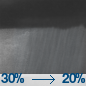
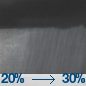
wire: 2026-10-15 RSA-1015-WIRE-122 + first sports/weather siblings

Changed region(s): [[0.7209, 0.8605, 0.814, 0.9767], [0.0, 0.8605, 0.1163, 0.9767]]

diff --git a/wire.html b/wire.html
@@ -5,16 +5,16 @@
   <meta name="viewport" content="width=device-width, initial-scale=1.0">
   <script>(function(){try{var s=localStorage.getItem('usmc-theme')||localStorage.getItem('theme');if(s!=='light')document.documentElement.setAttribute('data-theme','dark');}catch(e){}})();</script>
   <title>RESOLUTE Wire — Curated News for Citizens | U.S.M.C. Ministries</title>
-  <meta name="description" content="National and technology reporting for Thursday morning.">
+  <meta name="description" content="National and technology reporting for Thursday evening.">
   <link rel="canonical" href="https://usmcmin.com/wire.html">
   <meta property="og:site_name" content="RESOLUTE Wire">
-  <meta property="og:title" content="An F-35C trapped on the future John F. Kennedy for the first time — RESOLUTE Wire">
-  <meta name="twitter:title" content="An F-35C trapped on the future John F. Kennedy for the first time — RESOLUTE Wire">
-  <meta property="og:description" content="National and technology reporting for Thursday morning.">
+  <meta property="og:title" content="USS John Basilone arrived in Rota, completing the shift from Mayport — RESOLUTE Wire">
+  <meta name="twitter:title" content="USS John Basilone arrived in Rota, completing the shift from Mayport — RESOLUTE Wire">
+  <meta property="og:description" content="National and technology reporting for Thursday evening.">
   <meta property="og:type" content="website">
   <meta property="og:url" content="https://usmcmin.com/wire.html">
-  <meta property="og:image" content="https://usmcmin.com/assets/og/wire-dvids-10009945-jfk-f35c-1200x630.jpg">
-  <meta name="twitter:image" content="https://usmcmin.com/assets/og/wire-dvids-10009945-jfk-f35c-1200x630.jpg">
+  <meta property="og:image" content="https://usmcmin.com/assets/og/wire-dvids-10010800-basilone-rota-1200x630.jpg">
+  <meta name="twitter:image" content="https://usmcmin.com/assets/og/wire-dvids-10010800-basilone-rota-1200x630.jpg">
   <meta property="og:image:width" content="1200">
   <meta property="og:image:height" content="630">
   <meta name="twitter:image:width" content="1200">
@@ -134,19 +134,19 @@
     </div>
     <header class="mast" id="top">
       <h1>RESOLUTE <em>Wire</em></h1>
-      <p class="dek">National and technology reporting for Thursday morning.</p>
-      <div class="meta">Thursday, October 15, 2026 · AM edition · Rush Sullivan</div>
+      <p class="dek">National and technology reporting for Thursday evening.</p>
+      <div class="meta">Thursday, October 15, 2026 · PM edition · Rush Sullivan</div>
     </header>
     <article class="hero">
       <div class="hero-media">
-        <img src="assets/wire/dvids-10009945-jfk-f35c-1000w.jpg" alt="">
-        <div class="hero-credit">Mass Communication Specialist Seaman Kaitlyn Bailey · DVIDS 10009945 · Public domain · An F-35C Lightning II of VX-23 makes an arrested landing on PCU John F. Kennedy (CVN 79) in the Atlantic Ocean. Photo taken Oct. 13, 2026.</div>
+        <img src="assets/wire/dvids-10010800-basilone-rota-1000w.jpg" alt="">
+        <div class="hero-credit">Mass Communication Specialist 2nd Class Alyssa Sperle · DVIDS 10010800 · Public domain · A brow is secured to USS John Basilone (DDG 122) after arrival at Naval Station Rota, Spain, completing the homeport shift from Mayport. Photo taken Oct. 13, 2026.</div>
       </div>
       <div class="hero-body">
         <span class="chip">DVIDS</span>
-        <h2><a href="https://www.dvidshub.net/image/10009945/pcu-john-f-kennedy-first-f-35c-landing" target="_blank" rel="noopener">An F-35C trapped on the future John F. Kennedy for the first time</a></h2>
-        <p class="insight">DVIDS posted a Navy photograph of an F-35C Lightning II, attached to the Salty Dogs of Air Test and Evaluation Squadron (VX) 23, making an arrested landing on the flight deck of PCU John F. Kennedy (CVN 79). The caption says it is the first time an F-35C has landed on a Ford-class aircraft carrier. The ship is underway in the Atlantic conducting Aircraft Compatibility Testing of its launch and recovery gear. The photograph was taken Oct. 13 by Mass Communication Specialist Seaman Kaitlyn Bailey. USNI News reported Wednesday that Navy video and imagery show the same trap on Tuesday.</p>
-        <div class="src">DVIDS · <a href="https://www.dvidshub.net/image/10009945/pcu-john-f-kennedy-first-f-35c-landing" target="_blank" rel="noopener">Read source →</a></div>
+        <h2><a href="https://www.dvidshub.net/image/10010800/uss-john-basilone-ddg-122-completes-its-homeport-shift-navsta-rota" target="_blank" rel="noopener">USS John Basilone arrived in Rota, completing the shift from Mayport</a></h2>
+        <p class="insight">A Navy photograph posted Wednesday shows a brow secured to the Arleigh Burke-class guided-missile destroyer USS John Basilone (DDG 122) after the ship arrived at Naval Station Rota, Spain. The caption says the arrival on Oct. 14 completed the homeport shift from Mayport, Florida. The photograph was taken Oct. 13 by Mass Communication Specialist 2nd Class Alyssa Sperle. Rota is the Navy&#x27;s forward hub for destroyers covering Europe, Africa, and the Middle East.</p>
+        <div class="src">DVIDS · <a href="https://www.dvidshub.net/image/10010800/uss-john-basilone-ddg-122-completes-its-homeport-shift-navsta-rota" target="_blank" rel="noopener">Read source →</a></div>
       </div>
     </article>
     <section class="rails" aria-label="Channel rails">
@@ -154,16 +154,16 @@
         <h3>Political</h3>
         <article class="item no-media">
           <div>
-            <h4><a href="https://www.heritage.org/progressivism/commentary/trumps-census-proposal-big-step-restoring-national-unity" target="_blank" rel="noopener">Heritage says a census change is the sharper fight against cultural division</a></h4>
-            <p>Wednesday&#x27;s Heritage commentary says the Trump administration has made bold moves against cultural balkanization, citing fights with the Smithsonian Institution and the educational establishment. It says no move is more vital than the proposal to eliminate race, ethnicity, and sexual preference from the census.</p>
+            <h4><a href="https://www.heritage.org/health-care-reform/commentary/childhood-vaccine-schedules-across-countries" target="_blank" rel="noopener">American children get far more vaccine doses than children abroad</a></h4>
+            <p>Thursday&#x27;s Heritage commentary says childhood vaccination policies vary widely by country, and that American children receive up to 75 vaccine doses, twice as many as children in other countries. It says that disparity is why a confirmed FDA director, if Dr. Heidi Overton is confirmed, would put the schedule near the top of the job.</p>
             <div class="who">Heritage Foundation</div>
           </div>
           
         </article>
         <article class="item no-media">
           <div>
-            <h4><a href="https://lawliberty.org/civic-education-and-classical-liberalism/" target="_blank" rel="noopener">A Law &amp; Liberty essay asks what classical liberals want from civic education</a></h4>
-            <p>Thursday&#x27;s Law &amp; Liberty essay says civics centers that teach Western civilization and great books are often called conservative, and that the writer has not seen political litmus tests in them. It quotes Michael Oakeshott that every person is born heir to an inheritance that can be taken up only by learning. The essay says liberal learning frees students from the present by handing them that inheritance, then asks how civic education sits with classical liberalism and the role of the state.</p>
+            <h4><a href="https://lawliberty.org/book-review/progressive-buyers-remorse/" target="_blank" rel="noopener">The left is dusting off old arguments to weaken the Court</a></h4>
+            <p>Thursday&#x27;s Law &amp; Liberty book review says progressive writers are rediscovering century-old arguments for crippling the Supreme Court.</p>
             <div class="who">Law &amp; Liberty</div>
           </div>
           
@@ -173,17 +173,17 @@
         <h3>Tech / AI</h3>
         <article class="item no-media">
           <div>
-            <h4><a href="https://www.defensenews.com/industry/techwatch/2026/10/15/us-soldiers-must-train-on-new-basics-of-unmanned-systems-officials-say/" target="_blank" rel="noopener">Army officers say drone work is now a basic soldier skill</a></h4>
-            <p>Defense News reported Thursday that Army officials at the Association of the United States Army meeting said soldiers training for multi-domain operations need a common baseline they called new basics. In the 2nd Cavalry Regiment that list covers unmanned aerial systems, counter-drone systems, and unmanned ground vehicles. Col. Timothy Price, the regiment commander, said in a Tuesday Army release that counter-drone defense cannot stay tied to static positions if the American way of war is maneuver. The regiment is expanding Project Flytrap from small-unit trials to a battalion-level capability on Europe&#x27;s eastern flank. Flytrap 5.0, in Lithuania, tested more than 50 industry systems against a live opposing force with the United Kingdom and Australia.</p>
+            <h4><a href="https://www.defensenews.com/industry/techwatch/2026/10/15/kratos-combat-drone-completes-first-euro-flight-advances-turbojet-engine-production/" target="_blank" rel="noopener">Kratos and Airbus flew the U740 Valkyrie combat drone over Europe</a></h4>
+            <p>Defense News reports that Kratos and Airbus said the U740 Valkyrie completed a first European test flight this week, built for German and other European forces. The companies said the flight met its goals: a rocket-assisted takeoff, maneuvers at several altitudes, speeds up to Mach 0.8, and mission changes in flight. They described a 30-foot airframe with a 27-foot wingspan and an internal weapons bay.</p>
             <div class="who">Defense News</div>
           </div>
           
         </article>
         <article class="item no-media">
           <div>
-            <h4><a href="https://www.thepublicdiscourse.com/2026/10/102130/" target="_blank" rel="noopener">A Public Discourse essay says originalism now cuts against Burkean caution</a></h4>
-            <p>Thursday&#x27;s Public Discourse essay recalls Thomas Merrill&#x27;s 1990s argument that Robert Bork&#x27;s originalism and Edmund Burke&#x27;s conservatism were not the same thing, and that Burke beat Bork for anyone who put stock in conservative values. The writer says originalism is more sophisticated in the academy and more common on the Court than it was then, and that the older criticism is more urgent now because originalist jurisprudence has become a threat to conservative commitments.</p>
-            <div class="who">Public Discourse</div>
+            <h4><a href="https://www.defensenews.com/global/europe/2026/10/15/france-to-go-it-alone-on-next-gen-combat-aircraft-after-fcas-collapse/" target="_blank" rel="noopener">France will build its next fighter at home after the joint project with Germany collapsed</a></h4>
+            <p>Defense News reports that Air and Space Force Chief of Staff Jérôme Bellanger told the National Assembly&#x27;s defense committee on Wednesday that France now treats the future fighter, Avion de Combat du Futur, as a national program meant to fly conventional missions in 2040. France and Germany agreed in June to scrap the joint Future Combat Air System with Spain. Bellanger said Paris remains open to later cooperation that would not structure the aircraft&#x27;s birth.</p>
+            <div class="who">Defense News</div>
           </div>
           
         </article>
@@ -192,9 +192,9 @@
         <h3>Culture</h3>
         <article class="item no-media">
           <div>
-            <h4><a href="https://firstthings.com/why-the-death-penalty-is-a-sore-point-for-papal-authority/" target="_blank" rel="noopener">First Things says Leo&#x27;s death-penalty post sits against older Catholic teaching</a></h4>
-            <p>Thursday&#x27;s First Things essay quotes Pope Leo XIV&#x27;s Oct. 10 message that the death penalty is inadmissible because it attacks the inviolability and dignity of the person, and that detention can protect citizens without closing off redemption. The essay says that language comes from Pope Francis&#x27;s 2018 revision of the Catechism, which also records that legitimate authority long treated capital punishment after a fair trial as an acceptable means of safeguarding the common good. It says that older view runs through Scripture, the Fathers and Doctors, and the popes through Pius XII.</p>
-            <div class="who">First Things</div>
+            <h4><a href="https://providencemag.com/2026/10/the-violent-bear-it-away-who-decides-what-is-just/" target="_blank" rel="noopener">Leo called just war outdated because it needs rulers who will judge</a></h4>
+            <p>Thursday&#x27;s Providence essay says Pope Leo XIV&#x27;s encyclical Magnifica Humanitas called just war theory outdated. The writer agrees, but not as a call to drop the tradition: just war is not self-executing. It assumes legitimate political authority, shared moral concepts, and people who will make the hard call.</p>
+            <div class="who">Providence</div>
           </div>
           
         </article>
@@ -210,7 +210,7 @@
     </section>
     <section class="watch">
       <h3>Watch</h3>
-      <ul><li><a href="https://news.usni.org/2026/10/14/chinese-carrier-strike-group-drills-in-the-philippine-sea" target="_blank" rel="noopener">Japan&#x27;s Joint Staff says Liaoning&#x27;s group was in the Philippine Sea</a> </li></ul>
+      <ul><li><a href="https://news.usni.org/2026/10/15/north-korea-tests-first-submarine-launched-cruise-missile-in-nearly-3-years" target="_blank" rel="noopener">North Korea fired two submarine-launched cruise missiles Wednesday</a> </li></ul>
     </section>
     <section class="dock">
       <a href="sports.html"><div class="k">Texas desk</div><div class="t">Sports</div><div class="d">Texans, Astros, Rockets — character and the score.</div></a>

diff --git a/weather.html b/weather.html
@@ -131,7 +131,7 @@
     <header class="mast" id="top">
       <h1>RESOLUTE <em>Weather</em></h1>
       <p class="dek">Fredericksburg, Virginia — National Weather Service. Readiness, not climate talk.</p>
-      <div class="meta">Thursday, October 15, 2026 · AM edition</div>
+      <div class="meta">Thursday, October 15, 2026 · PM edition</div>
     </header>
     <article class="hero">
       <div class="hero-media">
@@ -140,16 +140,16 @@
       </div>
       <div class="hero-body">
         <span class="chip">NWS / Readiness</span>
-        <h2>No active NWS alerts on the Fredericksburg point. Rain showers today, high near 65.</h2>
-        <p class="insight">NWS lists no active alert for the Fredericksburg forecast point. Today is rain showers, cloudy, a high near 65, northeast wind around 7 mph, an 80 percent chance of precipitation. Tonight is a chance of rain showers before 2 a.m., a low around 59. Friday is mostly sunny, a high near 85. Friday night carries an 80 percent chance of showers and thunderstorms. Saturday night&#x27;s low is around 38.</p>
+        <h2>No active NWS alerts on the Fredericksburg point. A chance of showers this afternoon, high near 72.</h2>
+        <p class="insight">NWS lists no active alert for the Fredericksburg forecast point. This afternoon is a chance of rain showers, cloudy, a high near 72, northeast wind around 5 mph, a 30 percent chance of precipitation. Tonight is a chance of rain showers before 3 a.m., then patchy fog, a low around 60. Friday is patchy fog early, then mostly sunny, a high near 85. Friday night carries an 80 percent chance of showers and thunderstorms. Saturday night&#x27;s low is around 38.</p>
         <div class="src">Alerts: No watch or warning is up. · <a href="https://forecast.weather.gov/MapClick.php?lat=38.3032&amp;lon=-77.4605" target="_blank" rel="noopener">NWS forecast →</a></div>
-        <ul class="actions"><li>No active watches or warnings on the city point</li><li>Rain showers today, high near 65, 80 percent chance</li><li>Friday mostly sunny near 85; storms likely Friday night; Saturday night near 38</li></ul>
+        <ul class="actions"><li>No active watches or warnings on the city point</li><li>Chance of showers this afternoon, high near 72, 30 percent chance</li><li>Friday mostly sunny near 85; storms likely Friday night; Saturday night near 38</li></ul>
       </div>
     </article>
     <section class="watch">
       <h3>Forecast</h3>
       
-      <div class="period"><img class="period-icon" src="assets/weather/nws-today-day-rain-showers.png" alt=""><div><strong>Today</strong><p class="insight">Rain showers. Cloudy, with a high near 65. Northeast wind around 7 mph. Chance of precipitation is 80%. New rainfall amounts between a tenth and quarter of an inch possible.</p></div></div><div class="period"><img class="period-icon" src="assets/weather/nws-tonight-night-rain-showers.png" alt=""><div><strong>Tonight</strong><p class="insight">A chance of rain showers before 2am. Cloudy, with a low around 59. Southeast wind around 3 mph. Chance of precipitation is 30%. New rainfall amounts less than a tenth of an inch possible.</p></div></div><div class="period"><img class="period-icon" src="assets/weather/nws-friday-day-sct.png" alt=""><div><strong>Friday</strong><p class="insight">Mostly sunny, with a high near 85. Southwest wind 3 to 12 mph, with gusts as high as 21 mph.</p></div></div><div class="period"><img class="period-icon" src="assets/weather/nws-friday-night-night-tsra.png" alt=""><div><strong>Friday Night</strong><p class="insight">A slight chance of rain showers between 7pm and 8pm, then showers and thunderstorms. Mostly cloudy, with a low around 52. West wind 6 to 10 mph, with gusts as high as 24 mph. Chance of precipitation is 80%. New rainfall amounts between a quarter and half of an inch possible.</p></div></div><div class="period"><img class="period-icon" src="assets/weather/nws-saturday-day-rain-showers.png" alt=""><div><strong>Saturday</strong><p class="insight">Rain showers likely before 2pm. Mostly sunny, with a high near 56. North wind 10 to 16 mph, with gusts as high as 25 mph. Chance of precipitation is 70%.</p></div></div><div class="period"><img class="period-icon" src="assets/weather/nws-saturday-night-night-few.png" alt=""><div><strong>Saturday Night</strong><p class="insight">Mostly clear, with a low around 38.</p></div></div>
+      <div class="period"><img class="period-icon" src="assets/weather/nws-this-afternoon-day-rain-showers.png" alt=""><div><strong>This Afternoon</strong><p class="insight">A chance of rain showers. Cloudy, with a high near 72. Northeast wind around 5 mph. Chance of precipitation is 30%. New rainfall amounts less than a tenth of an inch possible.</p></div></div><div class="period"><img class="period-icon" src="assets/weather/nws-tonight-night-rain-showers.png" alt=""><div><strong>Tonight</strong><p class="insight">A chance of rain showers before 3am, then patchy fog and a slight chance of rain showers. Cloudy, with a low around 60. Southeast wind around 3 mph. Chance of precipitation is 30%. New rainfall amounts less than a tenth of an inch possible.</p></div></div><div class="period"><img class="period-icon" src="assets/weather/nws-friday-day-fog-sct.png" alt=""><div><strong>Friday</strong><p class="insight">Patchy fog and a slight chance of rain showers before 10am. Mostly sunny, with a high near 85. Southwest wind 3 to 12 mph, with gusts as high as 22 mph. Chance of precipitation is 20%.</p></div></div><div class="period"><img class="period-icon" src="assets/weather/nws-friday-night-night-tsra.png" alt=""><div><strong>Friday Night</strong><p class="insight">A slight chance of showers and thunderstorms between 7pm and 8pm, then showers and thunderstorms. Mostly cloudy, with a low around 50. West wind 6 to 12 mph, with gusts as high as 23 mph. Chance of precipitation is 80%. New rainfall amounts between a tenth and quarter of an inch possible.</p></div></div><div class="period"><img class="period-icon" src="assets/weather/nws-saturday-day-rain-bkn.png" alt=""><div><strong>Saturday</strong><p class="insight">A chance of rain showers before 8am. Partly sunny, with a high near 57. North wind 10 to 15 mph, with gusts as high as 24 mph. Chance of precipitation is 30%.</p></div></div><div class="period"><img class="period-icon" src="assets/weather/nws-saturday-night-night-few.png" alt=""><div><strong>Saturday Night</strong><p class="insight">Mostly clear, with a low around 38.</p></div></div>
       
     </section>
     <section class="dock">

diff --git a/sports.html b/sports.html
@@ -131,7 +131,7 @@
     <header class="mast" id="top">
       <h1>RESOLUTE <em>Sports</em></h1>
       <p class="dek">Texas desk — Texans, Astros, Rockets. Character and the score, not celebrity.</p>
-      <div class="meta">Thursday, October 15, 2026 · AM edition</div>
+      <div class="meta">Thursday, October 15, 2026 · PM edition</div>
     </header>
     <article class="hero">
       <div class="hero-media">
@@ -150,24 +150,24 @@
         <article class="item">
           <div>
             <h4><a href="https://www.houstontexans.com/schedule/" target="_blank" rel="noopener">Texans play Jacksonville in London on Sunday, 8:30 a.m. Central</a></h4>
-            <p>The Houston Texans schedule lists Sunday, Oct. 18, as an away game against the Jacksonville Jaguars at Wembley Stadium, kickoff 8:30 a.m. Central, on NFL Network. Week 5 was at Tennessee on Oct. 11. No score is printed here because Sunday has not been played.</p>
+            <p>The Houston Texans schedule lists Sunday, Oct. 18, as an away game against the Jacksonville Jaguars at Wembley Stadium, kickoff 8:30 a.m. Central, on NFL Network, as part of the NFL International Series. No score is printed here because Sunday has not been played.</p>
             <div class="who">Houston Texans</div>
           </div>
           <div class="thumb"><img src="assets/sports/nrg-reliant-interior.jpg" alt=""></div>
         </article>
         <article class="item">
           <div>
-            <h4><a href="https://www.mlb.com/news/2026-mlb-playoff-and-world-series-schedule" target="_blank" rel="noopener">Astros are out; Cleveland hosts Tampa Bay in Game 3 today at 1 p.m. Eastern</a></h4>
-            <p>MLB.com&#x27;s postseason schedule lists the Dodgers, Brewers, Rays, and Guardians in the League Championship Series. Houston is not on that list. Thursday&#x27;s Game 3, Tampa Bay at Cleveland, is at 1 p.m. Eastern on TBS, truTV, HBO Max, and UniMas. The original 6 p.m. start was moved because of a forecast of inclement weather. Milwaukee at Los Angeles, Game 4, is at 8 p.m. Eastern.</p>
+            <h4><a href="https://www.mlb.com/news/2026-mlb-playoff-and-world-series-schedule" target="_blank" rel="noopener">Astros are out; Cleveland beat Tampa Bay 3-2 in Game 3 and leads 2-1</a></h4>
+            <p>MLB.com&#x27;s postseason schedule lists the Dodgers, Brewers, Rays, and Guardians in the League Championship Series. Houston is not on that list. Thursday&#x27;s line reads Cleveland 3, Tampa Bay 2, Cleveland leads the series 2-1. Game 4, Tampa Bay at Cleveland, is Friday at 6 p.m. Eastern on TBS, truTV, HBO Max, and UniMas. Milwaukee at Los Angeles, Game 4, is Thursday at 8 p.m. Eastern.</p>
             <div class="who">MLB.com</div>
           </div>
           <div class="thumb"><img src="assets/sports/daikin-minute-maid-2010.jpg" alt=""></div>
         </article>
         <article class="item">
           <div>
-            <h4><a href="https://www.nba.com/rockets/game/0012600020-thunder-vs-rockets-houston-tx-10-15-2026/event-details" target="_blank" rel="noopener">Rockets host Oklahoma City tonight at 7:30 p.m. Central</a></h4>
-            <p>The Rockets&#x27; game page lists Oklahoma City at Houston on Thursday, Oct. 15, at Toyota Center, start 7:30 p.m. Central. No score is printed here because the game has not been played.</p>
-            <div class="who">Houston Rockets</div>
+            <h4><a href="https://www.nba.com/game/okc-vs-hou-0012600020" target="_blank" rel="noopener">Rockets host Oklahoma City tonight at 8:30 p.m. Eastern</a></h4>
+            <p>The NBA game page lists Oklahoma City at Houston on Thursday, Oct. 15, at Toyota Center, start 8:30 p.m. Eastern. The page is titled a game summary. No final score was printed on it. No score is printed here.</p>
+            <div class="who">NBA.com</div>
           </div>
           <div class="thumb"><img src="assets/sports/toyota-center-interior.jpg" alt=""></div>
         </article>
